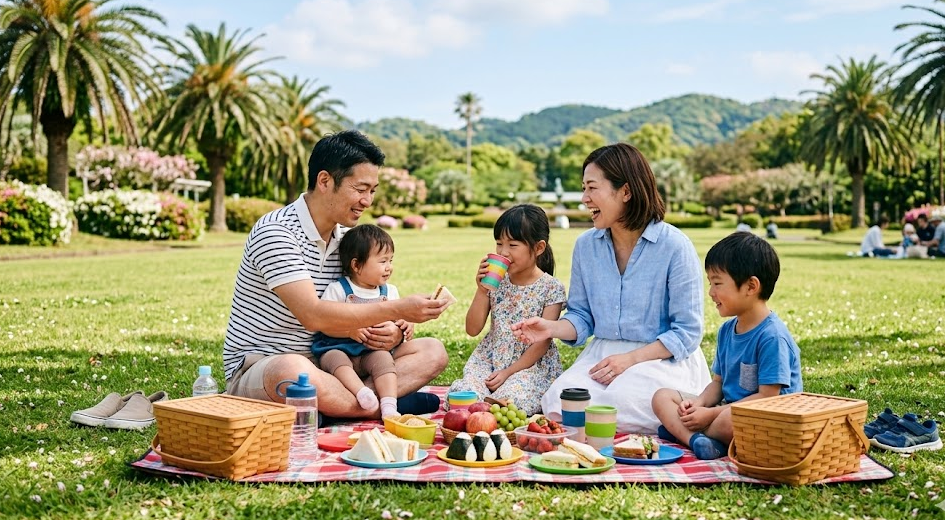
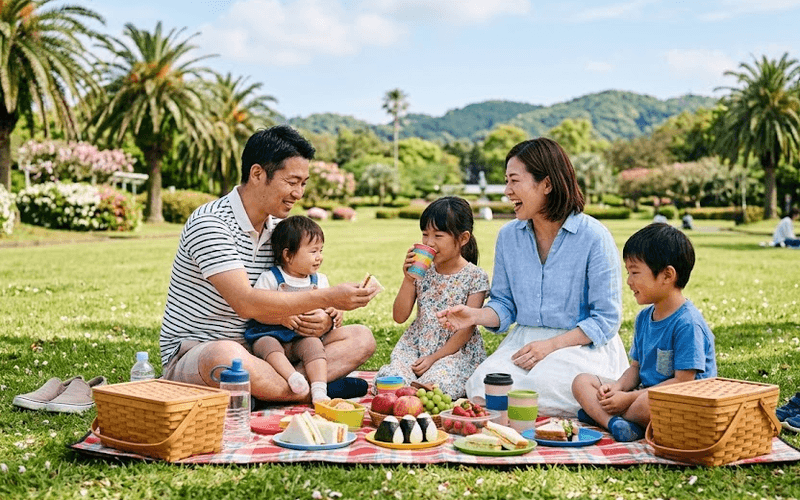
Compress images, add compress script

diff --git a/compress-images.js b/compress-images.js
@@ -1,0 +1,23 @@
+const sharp = require('sharp');
+const fs = require('fs');
+const path = require('path');
+
+const dir = './public/images/part1';
+const files = fs.readdirSync(dir).filter(f => f.endsWith('.png'));
+
+async function main() {
+  for (const file of files) {
+    const input = path.join(dir, file);
+    const tmp = path.join(dir, '_tmp_' + file);
+    const before = fs.statSync(input).size;
+    await sharp(input)
+      .resize(800, 500, { fit: 'cover' })
+      .png({ quality: 80, compressionLevel: 9 })
+      .toFile(tmp);
+    const after = fs.statSync(tmp).size;
+    fs.renameSync(tmp, input);
+    console.log(`${file}: ${Math.round(before/1024)}KB → ${Math.round(after/1024)}KB`);
+  }
+  console.log('Done!');
+}
+main().catch(console.error);
